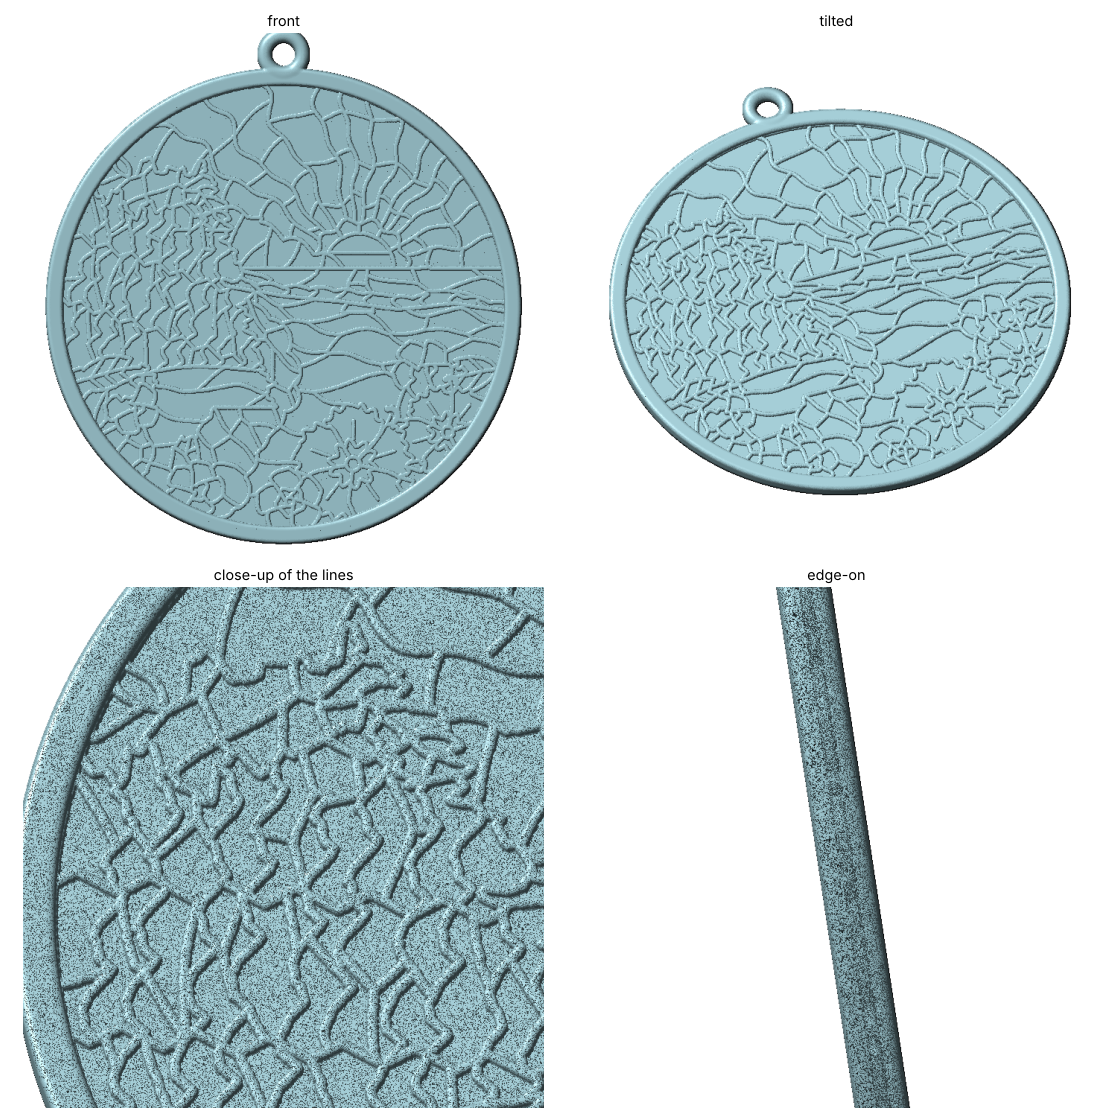
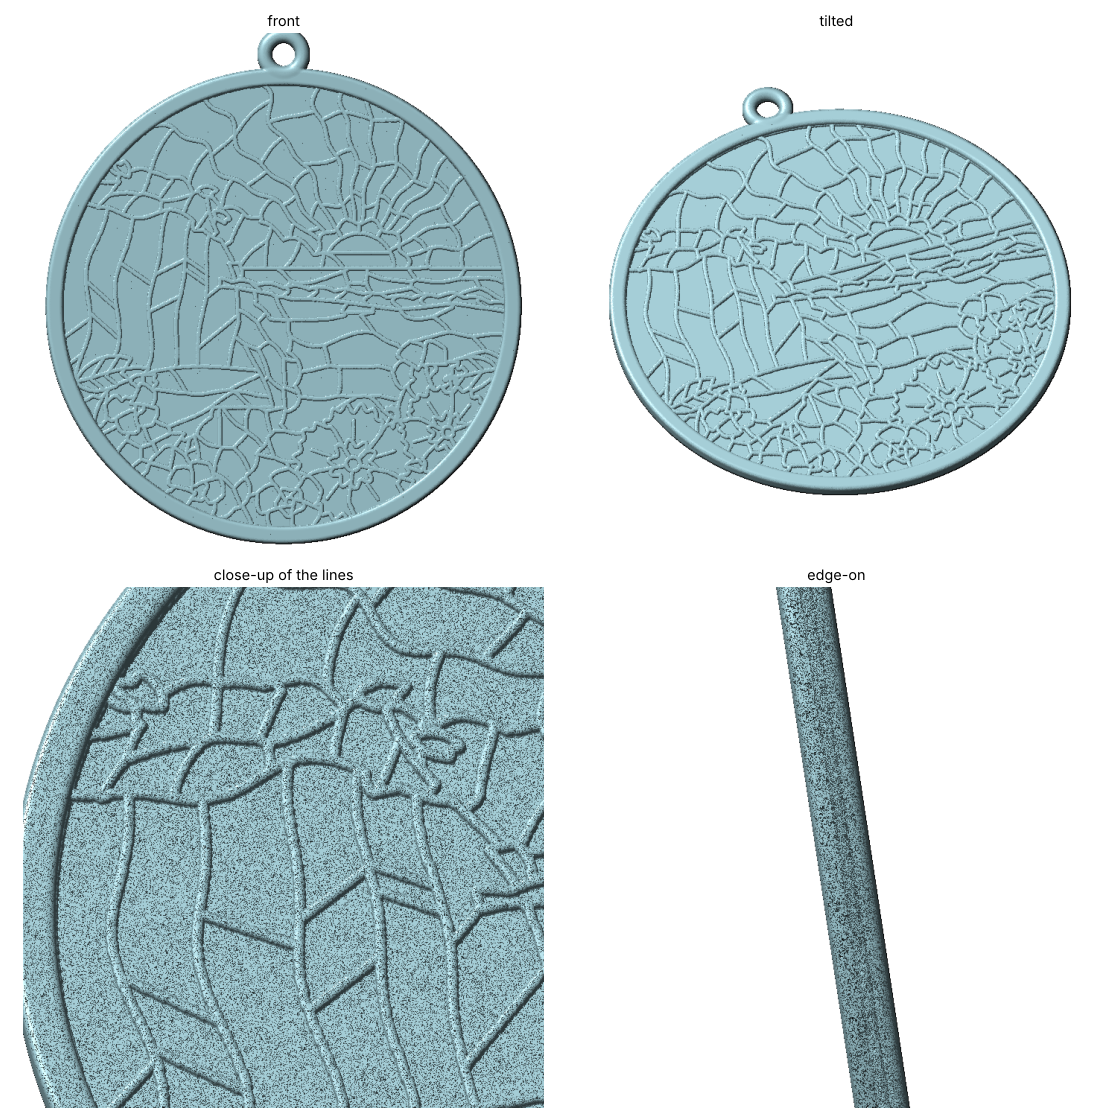
wave-suncatcher: cliff in long vertical strips with slanted cuts
Per Amy's markup: tall, gently curving streaks down the cliff, each cut
once or twice on a slant; smooth silhouette.

Claude-Session: https://claude.ai/code/session_017ftLatXiQgThsoC1M9thCT

diff --git a/3d-prints/wave-suncatcher/suncatcher.py b/3d-prints/wave-suncatcher/suncatcher.py
@@ -291,21 +291,26 @@ def design(res):
     # buttresses, jungle on top
     def tri(t):
         return 2 * np.abs(t - np.floor(t + 0.5))
-    top = 42 - 0.10 * (X + 70) + 7 * tri(X / 9.0 + 0.3) + 2.2 * tri(X / 3.1) + 1.5 * np.sin(X / 7)
-    face = -25 + 0.30 * (40 - Y) + 3.2 * tri(Y / 7.0) + 1.4 * tri(Y / 2.6) + 1.0 * np.sin(Y / 4.0)
+    # long, gently curving vertical strips running down the cliff, like
+    # streaked brown glass, each cut once or twice on a slant
+    top = 42 - 0.12 * (X + 70) + 2.5 * np.sin(X / 8.0 + 0.5) + 1.2 * np.sin(X / 3.7)
+    face = -25 + 0.30 * (40 - Y) + 1.6 * np.sin(Y / 6.0)
     cliff = (X < face) & (Y < top) & (Y > -34 + 6 * np.sin((X + 70) / 18.0) + 0.25 * (X + 70))
-    colc = (X + 0.42 * (40 - Y) + 3.0 * tri(Y / 9.0) + 0.8 * tri(Y / 4.3)) / 12.5
-    col = np.floor(colc).astype(int)
-    lit = (colc - col) < 0.42
-    ledge = np.floor((Y + 0.35 * X + 2.5 * tri(X / 8.0)) / 21.0).astype(int)
-    for k in np.unique(col[cliff]):
-        for li in (True, False):
-            for lg in np.unique(ledge[cliff & (col == k)]):
-                m = cliff & (col == k) & (lit == li) & (ledge == lg)
-                if m.sum() * res * res < 4:
-                    continue
-                shatter(M, m, "rock_lit" if li else "rock_dk", 6.0, ang=np.radians(78), stretch=2.4, amp=0.6,
-                        seed=100 + 7 * int(k) + 3 * int(lg) + int(li))
+    sx = X + 0.22 * (40 - Y) + 2.2 * np.sin(Y / 11.0) + 1.0 * np.sin(Y / 5.3 + X / 9.0)
+    srng = np.random.default_rng(21)
+    edges_x = np.cumsum(np.r_[-90.0, srng.uniform(7.0, 11.0, 14)])
+    strip = np.digitize(sx, edges_x)
+    tones = ["rock_lit", "rock", "rock_dk"]
+    for k in np.unique(strip[cliff]):
+        m = cliff & (strip == k)
+        ys = Y[m]
+        y0, y1 = ys.min(), ys.max()
+        ncut = 1 if y1 - y0 < 35 else 2
+        cuts = np.sort(srng.uniform(0.25, 0.75, ncut)) * (y1 - y0) + y0
+        slope = srng.choice([-1, 1]) * srng.uniform(0.5, 1.0)
+        seg = np.digitize(Y + slope * (X - X[m].mean()), cuts)
+        for j in range(ncut + 1):
+            M.paint(m & (seg == j), tones[srng.integers(3)])
     green = cliff & ((Y > top - 11 - 3 * np.sin(X / 4.0)) | ((X > face - 5 - 2 * np.sin(Y / 3)) & (Y > 24) & (Y < top)))
     jungle_x = [(-64, 47, 11, 60), (-54, 50, 12, 85), (-44, 49, 11, 70), (-34, 45, 10, 30), (-60, 38, 9, 150),
                 (-27, 37, 8, -20), (-49, 41, 9, 120), (-22, 30, 7, -40)]
